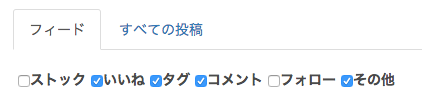
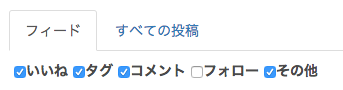
ストックの項目を削除、要素のズレが起こる問題を修正

diff --git a/qiita-feed-filter.user.js b/qiita-feed-filter.user.js
@@ -1,7 +1,7 @@
 // ==UserScript==
 // @name         Qiita Feed Filter
 // @namespace    https://abcang.net/
-// @version      0.1
+// @version      0.2
 // @description  Qiitaのフィードをタグやいいねなどでフィルタリングします
 // @author       ABCanG
 // @match        http://qiita.com/*
@@ -84,7 +84,6 @@
     };
 
     var filterList = [
-        ['stock', 'ストック'],
         ['like', 'いいね'],
         ['tag', 'タグ'],
         ['comment', 'コメント'],
@@ -96,11 +95,18 @@
         return obj;
     }, {});
 
-    var $stream = $($('.following-stream')[0]);
-    $stream.find('div:first').css({marginTop: '25px'});
+    // css
+    var tag = document.createElement('style');
+    tag.type = 'text/css';
+    document.getElementsByTagName('html').item(0).appendChild(tag);
+    var stylesheet = document.styleSheets.item(document.styleSheets.length - 1);
+    stylesheet.insertRule( ".qiita-filter-list{ margin-top: -10px; margin-bottom: 0px; }" , stylesheet.cssRules.length );
+    stylesheet.insertRule( ".qiita-filter-label{ display: inline-block; padding-left: 5px; }" , stylesheet.cssRules.length );
+    stylesheet.insertRule( ".following-stream .activities>div:first-child{ margin-top: 0px; }" , stylesheet.cssRules.length );
 
-    var $list = $('<div>').append(filterList.map(function(item) {
-        return $('<label>').append([
+    // create qiita-filter-list
+    var $list = $('<div>').addClass('qiita-filter-list').append(filterList.map(function(item) {
+        return $('<label>').addClass('qiita-filter-label').append([
             $('<input>').addClass('qiita-filter').attr({
                 id: 'filter-' + item[0],
                 name: item[0],
@@ -108,13 +114,13 @@
                 checked: (filter[item[0]] || null)
             }),
             $('<span>').text(item[1])
-        ]).attr({for: 'filter-' + item[0]}).css({
-            display: 'inline-block',
-            paddingLeft: '5px'
-        });
+        ]).attr({for: 'filter-' + item[0]});
     }));
+
+    var $stream = $($('.following-stream')[0]);
     $($stream).prepend($list);
 
+    // check event
     $('.qiita-filter').on('change', function() {
         var $this = $(this);
         var name = $this.attr('name');
